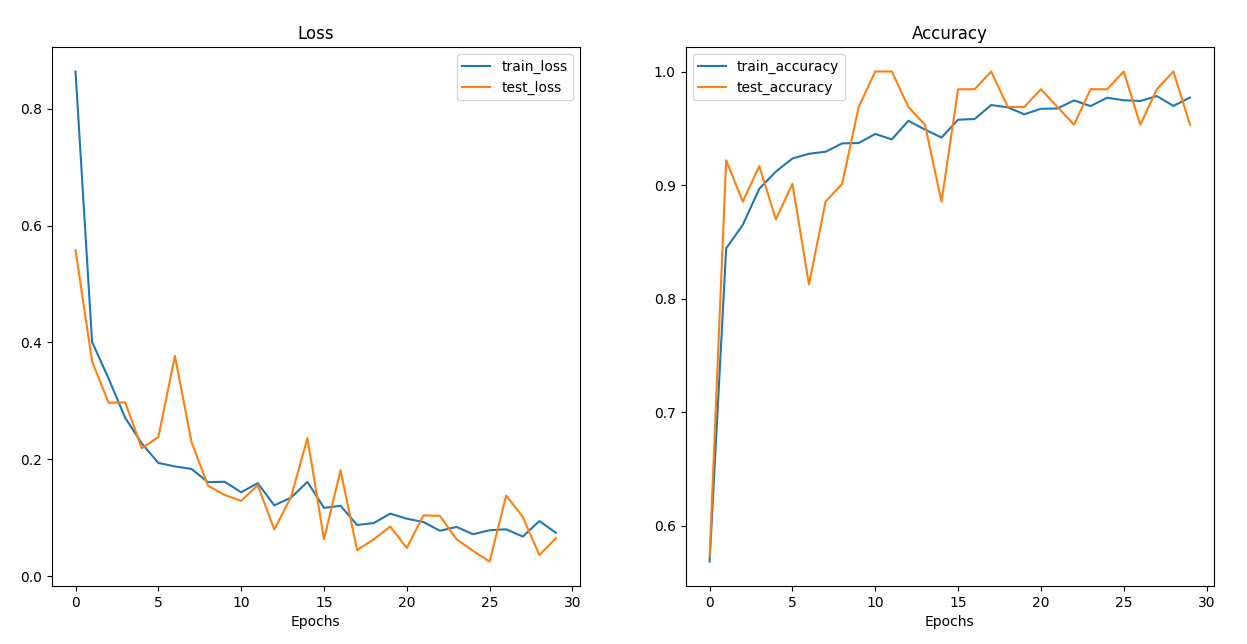
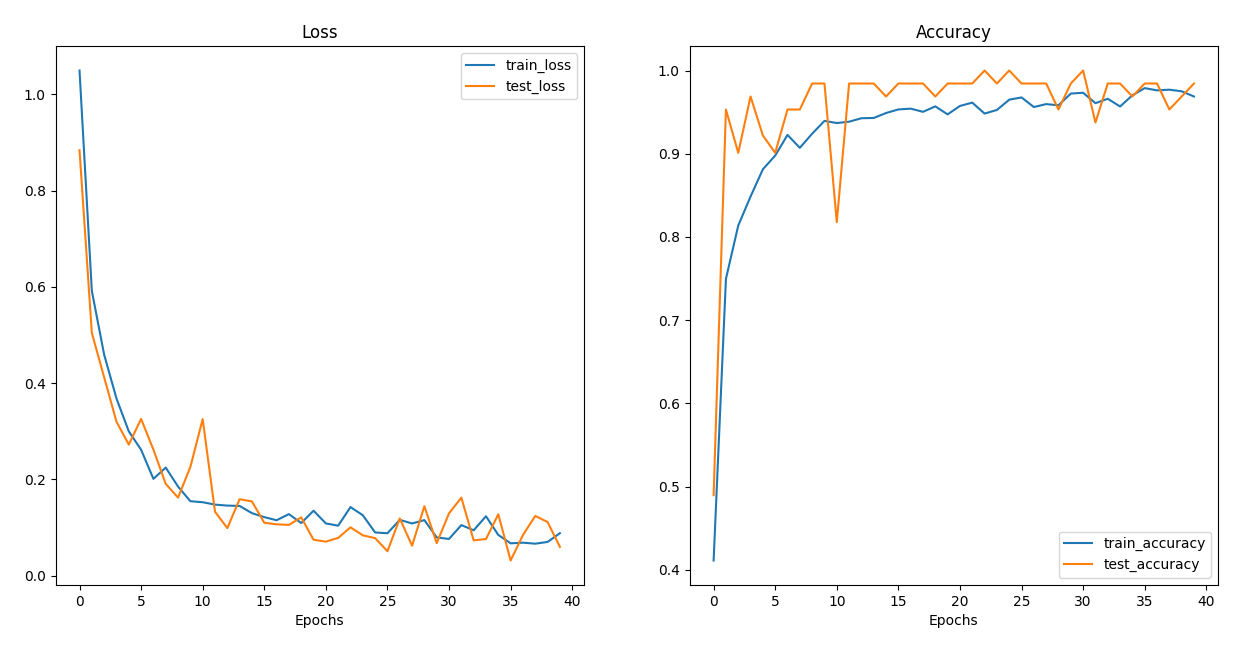
Better mango disease detection model

diff --git a/mango_model.py b/mango_model.py
@@ -213,7 +213,7 @@ def train(model: torch.nn.Module,
 
 
 train_results = train(model_0, train_custom_dataloader,
-                      test_custom_dataloader, loss_fn, optimizer, epochs=30)
+                      test_custom_dataloader, loss_fn, optimizer, epochs=40)
 
 MODELS_PATH = Path("models/")
 MODELS_PATH.mkdir(parents=True, exist_ok=True)
